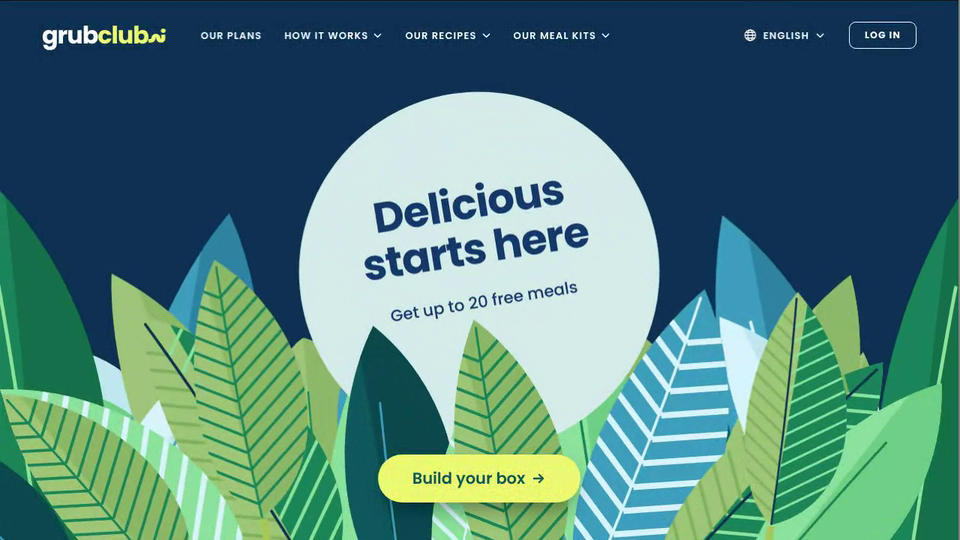
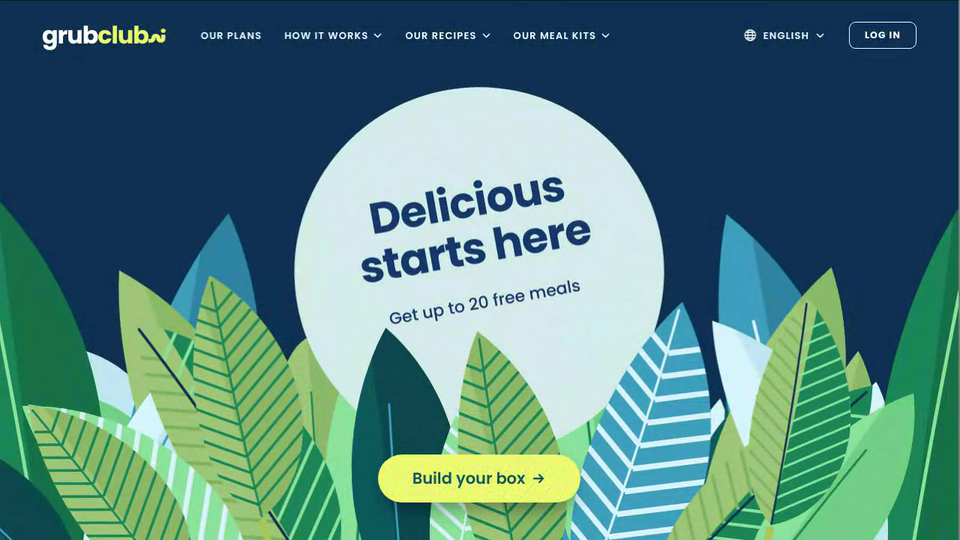
Grubclub Order: checkout-style flow pages, leaves already in place, email screen removed
Claude-Session: https://claude.ai/code/session_01AHeBdxhV8CCLctwk6eqLXm

diff --git a/grubclub-order/index.html b/grubclub-order/index.html
@@ -52,9 +52,9 @@ main{flex:1;min-height:0;position:relative;overflow:hidden;background:#07213a}
 #pLogo i{color:var(--bean)}
 #pStep{right:56px;top:40px;font-size:12px;font-weight:600;letter-spacing:.2em;color:var(--bean);display:flex;gap:18px}
 #pStep em{font-style:normal;opacity:.4}#pStep em.a{opacity:1}
-#pHead{left:56px;top:116px}
-#pHead h1{margin:0;font-size:40px;line-height:1.1;font-weight:700;letter-spacing:-.01em}
-#pHead p{margin:8px 0 0;font-size:17px;color:#3d6f74}
+#pHead{left:169px;top:138px}
+#pHead h1{margin:0;font-size:31px;line-height:1.1;font-weight:700;letter-spacing:-.01em}
+#pHead p{margin:6px 0 0;font-size:14px;color:#3d6f74}
 #grid{left:56px;top:216px;width:744px;display:grid;grid-template-columns:repeat(3,1fr);gap:20px}
 .card{background:#fff;border-radius:22px;padding:14px;height:226px;box-shadow:0 10px 24px -14px rgba(14,50,81,.35);opacity:0;transform:translateY(26px);transition:opacity calc(.5s*var(--k)),transform calc(.6s*var(--k)) cubic-bezier(.2,.8,.2,1),box-shadow .3s,outline-color .3s;outline:3px solid transparent;outline-offset:-1px}
 #s1.in .card{opacity:1;transform:none;transition-delay:calc(var(--i)*70ms*var(--k))}
@@ -67,17 +67,16 @@ main{flex:1;min-height:0;position:relative;overflow:hidden;background:#07213a}
 .card.sel .add{background:var(--navy);color:var(--kiwi)}
 .bx{left:836px;top:106px;width:388px;height:584px;border-radius:28px;background:var(--navy);color:#fff;opacity:0;transform:translateX(30px);transition:opacity calc(.6s*var(--k)),transform calc(.7s*var(--k)) cubic-bezier(.2,.8,.2,1)}
 #s1.in .bx{opacity:1;transform:none}
-.bx h3{position:absolute;left:28px;top:24px;margin:0;font-size:22px;font-weight:600}
+.bx h3{position:absolute;left:22px;top:20px;margin:0;font-size:19px;font-weight:600}
 .bx .cn{position:absolute;right:28px;top:16px;font-size:30px;font-weight:700;color:var(--kiwi);line-height:1.2}
 .bx .cn small{font-size:16px;color:var(--egg);font-weight:500}
 #pbox{position:absolute;left:109px;top:68px;width:170px}
 #slots{position:absolute;left:28px;right:28px;top:284px;display:grid;gap:8px}
 .slot{height:46px;border-radius:14px;border:1.5px dashed rgba(215,245,250,.28);display:flex;align-items:center;gap:12px;padding:0 14px;font-size:13.5px;font-weight:500;color:rgba(215,245,250,.45);transition:background .3s,border-color .3s,color .3s}
-.slot i{width:22px;height:22px;border-radius:50%;background:rgba(215,245,250,.12);flex:none;transition:background .3s}
+.slot i{display:grid;place-items:center;width:30px;height:30px;border-radius:50%;background:rgba(215,245,250,.12);flex:none;font:600 10.5px/1 Poppins,sans-serif;font-style:normal;color:rgba(215,245,250,.55);transition:background .3s,color .3s}
+.slot.on i{color:var(--navy)}
 .slot span{white-space:nowrap;overflow:hidden;text-overflow:ellipsis}
 .slot.on{border:1.5px solid transparent;background:rgba(215,245,250,.1);color:#fff}
-#cont{position:absolute;left:28px;right:28px;bottom:26px;height:52px;border-radius:999px;background:rgba(215,245,250,.12);color:rgba(215,245,250,.4);font:600 17px/52px Poppins,sans-serif;text-align:center;transition:background .3s,color .3s}
-#cont.ready{background:var(--kiwi);color:var(--bean)}
 @keyframes glow{50%{box-shadow:0 0 0 8px rgba(238,251,113,.25)}}
 
 /* ===== 3 pack ===== */
@@ -94,7 +93,7 @@ main{flex:1;min-height:0;position:relative;overflow:hidden;background:#07213a}
 #pkBtn.in{opacity:1;transform:none}
 #pkBtn.press{transform:scale(.96)}
 
-#pbox img,#pkBox img,#eThumb img{display:block;width:100%;height:auto}
+#pbox img{display:block;width:100%;height:auto}
 #pbox{transition:transform calc(.35s*var(--k)) cubic-bezier(.3,1.6,.5,1)}
 #pbox.bump{transform:scale(1.07) rotate(-2deg)}
 .slot.on i{animation:pop calc(.45s*var(--k)) cubic-bezier(.3,1.7,.5,1)}
@@ -137,60 +136,103 @@ main{flex:1;min-height:0;position:relative;overflow:hidden;background:#07213a}
 
 
 /* pick: roomier cards with product photos */
-#grid{left:56px;top:226px;width:744px;grid-template-columns:repeat(2,1fr);gap:32px}
-.card{display:flex;gap:20px;padding:20px;height:216px;border-radius:26px;outline:none;transition:opacity calc(.5s*var(--k)),transform calc(.6s*var(--k)) cubic-bezier(.2,.8,.2,1),background .3s}
+#grid{left:169px;top:222px;width:600px;grid-template-columns:repeat(2,1fr);gap:24px}
+.card{display:flex;gap:14px;padding:14px;height:186px;border-radius:20px;outline:none;transition:opacity calc(.5s*var(--k)),transform calc(.6s*var(--k)) cubic-bezier(.2,.8,.2,1),background .3s}
 #s1.in .card.sel{transform:translateY(-3px);outline:none;background:var(--kiwi)}
-.card .il{flex:none;width:140px;height:176px;border-radius:16px;overflow:hidden;background:#d4ea70}
+.card .il{flex:none;width:108px;height:158px;border-radius:14px;overflow:hidden;background:#d4ea70}
 .card .il img{display:block;width:100%;height:100%;object-fit:cover}
 .card .tx{display:flex;flex-direction:column;flex:1;min-width:0}
-.card .tx h4{margin:4px 0 0;height:auto;font-size:16px;line-height:1.3;font-weight:600}
+.card .tx h4{margin:2px 0 0;height:auto;font-size:14px;line-height:1.3;font-weight:600}
 .card .tx .rw{margin-top:auto}
 .card.sel .add{background:var(--navy);color:var(--kiwi)}
 .card.sel .rw small{color:var(--navy)}
-.bx{top:116px;height:574px}
-#pbox{left:84px;top:62px;width:220px}
-#slots{top:282px;gap:10px}
-.slot{height:50px}
+.bx{left:800px;top:140px;width:323px;height:476px;border-radius:22px}
+#pbox{left:70px;top:58px;width:184px}
+#slots{top:262px;left:22px;right:22px;gap:8px}
+.slot{height:44px}
 
-/* ===== 4 email ===== */
-#s3{background:var(--mint)}
-#esc{position:absolute;inset:0;overflow-y:auto;scrollbar-width:none}
-#esc::-webkit-scrollbar{display:none}
-#esz{position:relative;width:1280px;height:1071px;overflow:hidden}
-#eim{position:absolute;left:0;top:0;width:2000px;height:1673px;transform:scale(.64);transform-origin:0 0}
-#email{position:absolute;left:330px;top:115px;width:1340px;height:1443px;background:var(--paper);color:#0F5F5E;font-size:23.4px}
-#email>*{position:absolute}
-#email .hero{left:0;top:0;width:1340px;height:840px;background:#0E3C65}
-#email .band{left:0;top:0;width:1340px;height:163px;background:#0B375C}
-#email .rv{opacity:0;transform:translateY(34px);transition:opacity calc(.7s*var(--k)),transform calc(.8s*var(--k)) cubic-bezier(.2,.8,.2,1);transition-delay:calc(var(--d)*1ms*var(--k))}
-#email.in .rv{opacity:1;transform:none}
-#eLogo{left:167px;top:52px;font-size:39px;color:#fff;line-height:56px}
-#eLogo i{color:var(--kiwi)}
-#eHdrR{right:167px;top:52px;height:56px;display:flex;align-items:center;gap:36px;font-size:17px;font-weight:600;letter-spacing:.09em;text-transform:uppercase;color:#fff;line-height:1;white-space:nowrap}
-#eHdrR .elog{padding:14px 26px;border:2px solid #fff;border-radius:11px;font-weight:700;font-size:16.5px}
-#eTitle{left:262px;top:249px;margin:0;font-size:50px;font-weight:700;letter-spacing:-.005em;line-height:78px;color:#fff;white-space:nowrap}
-#eHi{left:262px;top:371px;margin:0;font-size:23.4px;line-height:29px;color:#fff;white-space:nowrap}
-#eAdr{left:262px;top:455px;margin:0;font-size:22px;line-height:34px;letter-spacing:.14em;color:#fff;white-space:nowrap}
-#eBtn{left:262px;top:544px;width:291px;height:66px;border-radius:7px;background:#EFFB7A;color:var(--bean);font-weight:600;font-size:18.6px;line-height:66px;text-align:center}
-#eCard{left:168px;top:713px;width:1005px;height:600px;background:#fff;border-radius:26px}
-#eCard>*{position:absolute}
-#eSum{left:94px;top:60px;margin:0;font-size:26.6px;font-weight:600;line-height:42px;color:#0B5456;white-space:nowrap}
-#eItem{left:94px;top:148px;width:819px;height:76px;background:#E2F5F3}
-#eThumb{position:absolute;left:0;top:0;width:80px;height:76px;background:#EEF17A;border-radius:8px 0 0 8px;overflow:hidden}
-#eThumb img{position:absolute;left:8px;top:7px;width:64px}
-#eName{position:absolute;left:104px;top:0;line-height:76px;font-weight:600;color:#0C6663;white-space:nowrap}
-#eName s{display:inline-block;width:2px;height:20px;background:#0C6663;margin:0 14px 0 14px;vertical-align:-3px;text-decoration:none}
-#eName span{font-weight:400}
-#ePrice{position:absolute;right:29px;top:0;line-height:76px;color:#0F6561}
-.trow{left:550px;width:363px;height:76px;display:flex;justify-content:space-between;padding:3px 29px 0 0;align-items:center;line-height:1;color:#0F6561}
-.trow.ln{border-bottom:2px solid #8DD3C6;height:78px}
-.trow.tot{font-weight:600;color:#0B5456}
-#eFoot{left:0;top:1380px;width:1340px;text-align:center;font-size:19px;color:#4a8a88}
+
+/* ===== checkout flow pages (layout after the supplied references) ===== */
+.logo.dk{color:#0A5033}.logo.dk i{color:#0A5033}.logo.dk .wm{color:#B9E22E}
+.flow,#s1{background:var(--paper);color:#0A2F25}
+.fh{position:absolute;left:0;top:0;width:1280px;height:62px}
+.fh .logo{position:absolute;left:157px;top:14px;font-size:26px}
+.fh .bk{position:absolute;left:316px;top:20px;width:22px;height:22px;color:#0A2F25}
+.fh .pg{position:absolute;left:370px;top:0;width:753px;height:62px;font:500 11.5px/1 Poppins,sans-serif;color:#5b6f69}
+.pg .d{position:absolute;top:12px;width:8px;height:8px;border-radius:50%;background:#8a8f8d}
+.pg .d.on{background:#0F5A5C}
+.pg .bar{position:absolute;top:14px;height:4px;border-radius:2px;background:#bfc4c2;overflow:hidden}
+.pg .bar i{display:block;height:100%;width:0;background:#0F5A5C;transition:width calc(1.1s*var(--k)) ease}
+.pg .d1{left:0}.pg .b1{left:14px;width:296px}.pg .d2{left:318px}.pg .b2{left:332px;width:407px}.pg .d3{left:745px}
+.pg em{position:absolute;top:32px;font-style:normal}
+.pg .l1{left:0}.pg .l2{left:318px;transform:translateX(-30%)}.pg .l3{right:0}
+.pg em.on{color:#0F5A5C;font-weight:600}
+.fb{position:absolute;left:0;top:62px;width:1280px;height:55px;background:#D6F3E0;display:flex;align-items:center;justify-content:center;gap:12px;font:400 13px/1 Poppins,sans-serif;color:#0A2F25}
+.fb svg{width:18px;height:18px;flex:none}.fb .x{position:absolute;right:16px;top:19px;width:18px;height:18px}
+.fbar{position:absolute;left:0;top:640px;width:1280px;height:80px;border-top:1px solid #dcdfdd;background:var(--paper)}
+.fbar .bkb{position:absolute;left:421px;top:14px;width:72px;height:41px;border:1.5px solid #0A2F25;border-radius:8px;font:600 14px/38px Poppins,sans-serif;text-align:center}
+.fbar .nx{position:absolute;left:509px;top:14px;width:360px;height:41px;border-radius:8px;background:var(--navy);color:#fff;font:600 14px/41px Poppins,sans-serif;text-align:center;transition:transform .15s,opacity .3s}
+.fbar .nx.press{transform:scale(.97)}
+#cont{opacity:.4}#cont.ready{opacity:1}
+.pcol{position:absolute;left:169px;top:140px;width:460px;height:480px}
+.pcol.wide{width:954px}
+.ph{margin:0;font:700 31px/1.15 Poppins,sans-serif;letter-spacing:-.025em;color:#0A2F25}
+.pimg{position:absolute;left:658px;top:134px;width:462px;height:490px;border-radius:26px;overflow:hidden;background:#d4ea70}
+.pimg img{display:block;width:100%;height:100%;object-fit:cover}
+.flow .pc,.flow .pcol>*,.flow .pimg,.flow .sum{opacity:0;transform:translateY(16px);transition:opacity calc(.5s*var(--k)),transform calc(.6s*var(--k)) cubic-bezier(.2,.8,.2,1)}
+.flow.in .pcol>*,.flow.in .pimg,.flow.in .sum{opacity:1;transform:none}
+.flow.in .pcol>*:nth-child(2){transition-delay:calc(.08s*var(--k))}.flow.in .pcol>*:nth-child(3){transition-delay:calc(.16s*var(--k))}.flow.in .pcol>*:nth-child(4){transition-delay:calc(.24s*var(--k))}
+/* address */
+.okd{display:inline-grid;place-items:center;width:26px;height:26px;border-radius:50%;background:#B9E22E;color:#0A3A2B;opacity:0;transition:opacity .4s}
+.okd svg{width:16px;height:16px}
+.gn{margin:14px 0 0;font:600 17px/1 Poppins,sans-serif;color:#0F5A5C;opacity:0;transition:opacity .4s}
+#gn2{margin-top:8px;color:#0F5A5C;opacity:0;transition:opacity .4s}
+.fld{position:absolute;left:0;top:176px;width:446px;height:42px;border:1.5px solid #0F5A5C;border-radius:6px;font:500 14px/42px Poppins,sans-serif;padding:0 14px;color:#0A2F25}
+.fld label{position:absolute;left:10px;top:-8px;padding:0 5px;background:var(--paper);font:400 11px/14px Poppins,sans-serif;color:#0F5A5C}
+.fld .tick{position:absolute;right:14px;top:10px;width:20px;height:20px;opacity:0;transition:opacity .3s}.fld .tick svg{width:20px;height:20px}
+#s4.done .okd,#s4.done .gn,#s4.done #gn2,#s4.done .tick{opacity:1}
+#s4.in .pcol>.okd,#s4 .pcol>.okd{transform:none}
+/* options */
+.opts{position:absolute;left:0;top:66px;width:460px;display:grid;grid-template-columns:1fr 1fr;gap:20px 20px}
+.opt{height:50px;border-radius:10px;background:#EFEDE6;font:600 14px/50px Poppins,sans-serif;padding:0 20px;transition:background .3s}
+.opt.sel{background:var(--kiwi)}
+.note{position:absolute;left:0;width:446px;height:70px;border-radius:8px;background:#E1F4E1;display:flex;align-items:center;gap:14px;padding:0 16px}
+.note b{display:block;font:600 13px/1.3 Poppins,sans-serif;color:#0A2F25}.note span{display:block;margin-top:3px;font:400 12px/1.4 Poppins,sans-serif;color:#33524a}
+.note .ni{flex:none;width:40px;height:40px;border-radius:8px;overflow:hidden;display:grid;place-items:center;background:#fff}.note .ni svg{width:24px;height:24px}.note .ni img{width:100%;height:100%;object-fit:cover}
+.note.mid{left:247px;top:418px;width:450px;height:68px}
+/* flavours */
+.flv{position:absolute;left:12px;top:70px;display:grid;grid-template-columns:repeat(3,190px);gap:30px 12px}
+.fv{height:136px}
+.fv .ic{width:46px;height:46px}
+.fv .nm{margin-top:10px;font:600 14px/1 Poppins,sans-serif}
+.fv .th{margin-top:18px;display:flex;gap:12px}
+.th b{display:grid;place-items:center;width:42px;height:42px;border-radius:50%;background:#EFEDE6;transition:background .3s,color .3s}.th b svg{width:20px;height:20px}
+.th b.up.sel{background:var(--kiwi)}.th b.dn.sel{background:#0E3251;color:#fff}
+/* cooking */
+.cooks{position:absolute;left:114px;top:66px;display:flex;gap:26px}
+.ck{width:220px;height:210px;border-radius:10px;overflow:hidden;background:#EFEDE6;text-align:center;transition:background .3s}
+.ck .im{height:130px;background:#d4ea70}.ck .im img{display:block;width:100%;height:100%;object-fit:cover}
+.ck b{display:block;margin-top:12px;font:600 14px/1 Poppins,sans-serif}.ck span{display:block;margin:8px 16px 0;font:400 11.5px/1.4 Poppins,sans-serif;color:#33524a}
+.ck.sel{background:var(--kiwi)}
+/* plan */
+.lead{position:absolute;left:0;top:64px;margin:0;width:470px;font:400 13.5px/1.55 Poppins,sans-serif;color:#1e3a33}
+.lbl{position:absolute;left:0;font:600 13.5px/1 Poppins,sans-serif}
+.seg{position:absolute;left:0;width:461px;height:36px;display:flex;border:1.5px solid #0A2F25;border-radius:8px;overflow:hidden}
+.seg span{flex:1;font:600 13.5px/33px Poppins,sans-serif;text-align:center;border-left:1.5px solid #0A2F25;transition:background .3s,color .3s}
+.seg span:first-child{border-left:0}.seg span.sel{background:#0A2F25;color:#fff}
+.sum{position:absolute;left:658px;top:130px;width:462px;height:486px;border-radius:14px;background:#E9EFEA;padding:22px 20px}
+.sum h3{margin:0 0 14px;font:700 20px/1.2 Poppins,sans-serif;letter-spacing:-.02em}
+.sum .sh{display:block;font:600 14.5px/1.3 Poppins,sans-serif;margin-top:6px}
+.sum p{margin:6px 0 0;font:400 13px/1.4 Poppins,sans-serif}.sum s,.sum .row s{color:#6e7b76}.sum em{font-style:normal;color:#0F5A5C;font-weight:600}
+.free{position:relative;margin:12px 0 10px;padding:9px 12px;border-radius:6px;background:#C9F0D3}.free b{font:500 13.5px/1.3 Poppins,sans-serif}.free i{position:absolute;right:12px;top:9px;font:700 13.5px/1.3 Poppins,sans-serif;font-style:normal}.free span{display:block;margin-top:3px;font:400 11.5px/1.4 Poppins,sans-serif;color:#33524a}
+.sum .row{display:flex;justify-content:space-between;padding:9px 0;font:400 13.5px/1.2 Poppins,sans-serif}.sum .row.ln{border-bottom:1px solid #c9d2cd}.sum .row:first-of-type{border-top:1px solid #c9d2cd}
+.sum .tot{font:700 15px/1.2 Poppins,sans-serif;padding-top:12px}
+
 </style>
 </head>
 <body>
 <nav class="back" aria-label="Sandbox"><a href="../">Sandbox</a><span>/</span><a href="../">Back to all projects</a><span>/</span><b>Grubclub Order</b>
-  <div class="ctl" role="group" aria-label="Scenes"><button data-s="0">Hero</button><button data-s="1">Pick</button><button data-s="2">Pack</button><button data-s="3">Email</button><button class="pp" id="pp" aria-label="Pause"></button></div>
+  <div class="ctl" role="group" aria-label="Scenes"><button data-s="0">Hero</button><button data-s="4">Address</button><button data-s="5">Days</button><button data-s="6">Flavours</button><button data-s="7">Cooking</button><button data-s="8">Plan</button><button data-s="1">Pick</button><button data-s="2">Pack</button><button class="pp" id="pp" aria-label="Pause"></button></div>
 </nav>
 <main id="wrap"><div id="stage">
 
@@ -210,11 +252,9 @@ main{flex:1;min-height:0;position:relative;overflow:hidden;background:#07213a}
 
 <!-- 2 pick -->
 <section class="scene" id="s1" aria-label="Pick your meals">
-  <div class="abs logo" id="pLogo">grub<i>club</i><span class="wm" style="color:var(--bean)"></span></div>
-<div class="abs snav" id="pNav"><a>Our plans</a><a>How it works<svg viewBox="0 0 16 16"><path d="M3 5.5l5 5 5-5" fill="none" stroke="currentColor" stroke-width="2" stroke-linecap="round" stroke-linejoin="round"/></svg></a><a>Our recipes<svg viewBox="0 0 16 16"><path d="M3 5.5l5 5 5-5" fill="none" stroke="currentColor" stroke-width="2" stroke-linecap="round" stroke-linejoin="round"/></svg></a><a>Our meal kits<svg viewBox="0 0 16 16"><path d="M3 5.5l5 5 5-5" fill="none" stroke="currentColor" stroke-width="2" stroke-linecap="round" stroke-linejoin="round"/></svg></a><span class="sp"></span><span class="lang"><svg class="g" viewBox="0 0 24 24" fill="none" stroke="currentColor" stroke-width="1.7"><circle cx="12" cy="12" r="9.5"/><ellipse cx="12" cy="12" rx="4.2" ry="9.5"/><path d="M2.5 12h19M4 7h16M4 17h16"/></svg>English<svg viewBox="0 0 16 16"><path d="M3 5.5l5 5 5-5" fill="none" stroke="currentColor" stroke-width="2" stroke-linecap="round" stroke-linejoin="round"/></svg></span><span class="login">Log in</span></div>
   <div class="abs" id="pHead"><h1>Pick your meals</h1><p>Choose 3 you like for your entomo box</p></div>
   <div class="abs" id="grid"></div>
-  <div class="abs bx"><h3>Your box</h3><div class="cn"><b id="cnt">0</b><small> / 3</small></div><div id="pbox"></div><div id="slots"></div><div id="cont">Continue</div></div>
+  <div class="abs bx"><h3>Your box</h3><div class="cn"><b id="cnt">0</b><small> / 3</small></div><div id="pbox"></div><div id="slots"></div></div>
 </section>
 
 <!-- 3 pack -->
@@ -228,26 +268,43 @@ main{flex:1;min-height:0;position:relative;overflow:hidden;background:#07213a}
   <div class="abs" id="pkBtn" role="button">Place order</div>
 </section>
 
-<!-- 4 email -->
-<section class="scene" id="s3" aria-label="Order email">
- <div id="esc"><div id="esz"><div id="eim"><div id="email">
-  <div class="hero"></div><div class="band"></div>
-  <div class="logo rv" id="eLogo" style="--d:0">grub<i>club</i><span class="wm" style="color:var(--kiwi)"></span></div>
-  <div class="rv" id="eHdrR" style="--d:80"><span>Read online</span><span class="elog">Log in</span></div>
-  <h2 class="rv" id="eTitle" style="--d:200">Your order has arrived!</h2>
-  <p class="rv" id="eHi" style="--d:320">Hi Kristyna,<br>Thanks for shopping with grubclub. Your package was delivered to:</p>
-  <p class="rv" id="eAdr" style="--d:420">330 UNIVERSITY AVE, TORONTO, ON M5G 1R8</p>
-  <div class="rv" id="eBtn" style="--d:520">View your order</div>
-  <div class="rv" id="eCard" style="--d:620">
-    <h3 id="eSum">Order summary</h3>
-    <div id="eItem"><div id="eThumb"></div><div id="eName">Entomo box<s></s><span>x1</span></div><div id="ePrice">$100.00</div></div>
-    <div class="trow ln" style="top:241px"><span>Subtotal</span><span>$90.00</span></div>
-    <div class="trow ln" style="top:317px"><span>Shipping</span><span>$27.55</span></div>
-    <div class="trow" style="top:393px"><span>HST</span><span>$27.55</span></div>
-    <div class="trow tot" style="top:469px"><span>Total</span><span>$145.10</span></div>
-  </div>
-  <div class="rv" id="eFoot" style="--d:760">Questions about your order? Just reply to this email.</div>
- </div></div></div></div>
+
+
+
+<!-- flow: address -->
+<section class="scene flow" id="s4" aria-label="Delivery address">
+  <div class="pcol" style="top:156px"><span class="okd"><svg viewBox="0 0 24 24" fill="none" stroke="currentColor" stroke-width="2.6" stroke-linecap="round" stroke-linejoin="round"><path d="M5 12.5l4.5 4.5L19 7.500"/></svg></span><p class="gn" id="gn1">Good news!</p><h1 class="ph" id="gn2">We deliver to your area!</h1>
+    <div class="fld" id="fld"><label>Enter delivery address</label><span id="typed"></span><i class="tick"><svg viewBox="0 0 24 24" fill="none" stroke="currentColor" stroke-width="2.6" stroke-linecap="round" stroke-linejoin="round"><path d="M5 12.5l4.5 4.5L19 7.500"/></svg></i></div></div>
+  <div class="pimg"><img src="box-photo.webp" alt="" style="object-position:48% 52%"></div>
+</section>
+<!-- flow: days per week -->
+<section class="scene flow" id="s5" aria-label="How often">
+  <div class="pcol"><h1 class="ph">How often should we handle dinner?</h1>
+    <div class="opts" id="optsDays"><div class="opt">1-2 days per week</div><div class="opt">3-4 days per week</div><div class="opt">5-6 days per week</div><div class="opt">All week</div></div>
+    <div class="note" style="top:392px"><span class="ni"><svg viewBox="0 0 24 24" fill="none" stroke="#0F5A5C" stroke-width="1.8"><rect x="4" y="5" width="16" height="15" rx="2.500"/><path d="M4 10h16M8 3v4M16 3v4"/></svg></span><div><b>Flexible, no lock-in plans</b><span>Skip or pause flexibly</span></div></div></div>
+  <div class="pimg"><img src="flow-boxes.webp" alt="" style="object-position:50% 40%"></div>
+</section>
+<!-- flow: flavours -->
+<section class="scene flow" id="s6" aria-label="Favourite flavours">
+  <div class="pcol wide"><h1 class="ph">Any favourite flavours?</h1><div class="flv" id="flv"></div></div>
+</section>
+<!-- flow: how do you like to cook -->
+<section class="scene flow" id="s7" aria-label="How do you like to cook">
+  <div class="pcol wide"><h1 class="ph">How do you like to cook?</h1>
+    <div class="cooks" id="cooks"></div>
+    <div class="note mid"><span class="ni"><img src="meal-mealworm.webp" alt=""></span><div><b>Help us personalize your menu</b><span>With so many meals to choose from, your answers help us serve up the ones you'll love most.</span></div></div></div>
+</section>
+<!-- flow: plan summary -->
+<section class="scene flow" id="s8" aria-label="Your plan">
+  <div class="pcol" style="width:470px"><h1 class="ph">Dinner's sorted, your way.</h1>
+    <p class="lead">Based on what you've told us, we recommend this box size. Perfect for solo cooks and duos, you'll never be short on delicious bug-powered variety and meal options!</p>
+    <div class="lbl" style="top:238px">Servings per dinner</div><div class="seg" id="segA" style="top:262px"><span>2</span><span>4</span><span>6</span></div>
+    <div class="lbl" style="top:318px">Dinners per week</div><div class="seg" id="segB" style="top:342px"><span>3</span><span>4</span><span>5</span></div></div>
+  <div class="sum"><h3>Your summary</h3><b class="sh">Preferences</b><p>Crunchy and savoury</p><b class="sh" style="margin-top:26px">Order summary</b>
+    <p>3 meals for 2 people per week</p><p>6 servings at <s>$16.67</s> <em>$15.00</em> per serving</p>
+    <div class="free"><b>Free spice kit - for life!</b><i>FREE</i><span>Choose 1 free item per box with an active subscription.</span></div>
+    <div class="row"><span>Box price</span><span><s>$100.00</s> <em>$90.00</em></span></div><div class="row"><span>Shipping</span><span>$27.55</span></div><div class="row ln"><span>HST</span><span>$27.55</span></div>
+    <div class="row tot"><span>First box total</span><span>$145.10</span></div></div>
 </section>
 
 <div id="w1" class="abs" style="inset:0;display:none;z-index:60"></div>
@@ -314,9 +371,8 @@ const PICKS=[0,1,3];
 
 /* ============ build static DOM ============ */
 $('#grid').innerHTML=MEALS.map((m,i)=>`<div class="card" style="--i:${i}" data-i="${i}"><div class="il"><img src="${m.img}" alt="${m.n}"></div><div class="tx"><h4>${m.n}</h4><div class="rw"><small>${m.g}</small><div class="add">+ Add</div></div></div></div>`).join('');
-$('#slots').innerHTML=PICKS.map(()=>`<div class="slot"><i></i><span>Choose a meal</span></div>`).join('');
+$('#slots').innerHTML=PICKS.map((_,n)=>`<div class="slot"><i>${n+1}</i><span>Choose a meal</span></div>`).join('');
 $('#pbox').innerHTML='<img src="box.webp" alt="">';
-$('#eThumb').innerHTML='<img src="box.webp" alt="">';
 
 /* hero collage */
 const HB=[[300,610,62,'#EEF6A8'],[200,600,90,'#A8C7DA'],[1000,590,84,'#BFE3DF'],[900,640,40,'#EEF6A8']];
@@ -338,7 +394,7 @@ $('#pkRings').innerHTML=Array.from({length:PR.n},()=>`<circle cx="${PR.cx}" cy="
 /* ============ per-frame drawing ============ */
 const pack={t:0,out:null};
 function drawHero(){const t=hero.t;
-  for(const l of hero.L){const p=eob((t-l.d)/.95),sw=Math.sin(t*l.sp+l.ph)*l.amp;l.el.setAttribute('transform',`translate(${l.x} ${l.y}) rotate(${l.r+sw+(1-p)*-22*Math.sign(l.r||1)}) scale(${Math.max(p,.0001)})`)}
+  for(const l of hero.L){const p=1,sw=Math.sin(t*l.sp+l.ph)*l.amp;l.el.setAttribute('transform',`translate(${l.x} ${l.y}) rotate(${l.r+sw+(1-p)*-22*Math.sign(l.r||1)}) scale(${Math.max(p,.0001)})`)}
   const s=eob((t-.15)/.95)*(1+.022*Math.sin(t*1.7));$('#hc').setAttribute('transform',`translate(640 362) scale(${Math.max(s*1.14,.0001)})`);
   $('#hTxt').setAttribute('transform',`rotate(${-9+Math.sin(t*.9)*1.3})`);
   $$('.hl').forEach((e,i)=>{const p=clamp((t-(.9+i*.14))/.5);e.setAttribute('opacity',p);e.setAttribute('dy',(1-p)*14)});
@@ -359,7 +415,8 @@ function curSet(x,y){cursor.style.transition='none';cursor.style.transform=`tran
 function curGo(x,y,ms){cursor.style.transition=`transform ${ms*K}ms cubic-bezier(.45,0,.2,1)`;cursor.style.transform=`translate(${x}px,${y}px)`}
 async function curClick(g){cursor.classList.remove('down');void cursor.offsetWidth;cursor.classList.add('down');await W(160,g)}
 const cen=el=>{const r=rc(el);return{x:r.x+r.w/2,y:r.y+r.h/2}};
-const BG=['#0E3251','#F7F6FA','#0E3251','#A3DAC5'];
+const BG=['#0E3251','#F7F6FA','#0E3251','#0E3251','#F7F6FA','#F7F6FA','#F7F6FA','#F7F6FA','#F7F6FA'];
+const ORDER=[0,4,5,6,7,8,1,2],ORDER_CLIP=[0,1];
 function clearWipe(){['#w1','#w2'].forEach(x=>{const e=$(x);e.getAnimations().forEach(a=>a.cancel());e.style.display='none';e.style.opacity=''})}
 /* scene change: a calm dissolve through the next scene's background colour */
 async function wipe(g,x,y,col){const w=$('#w2');$('#w1').style.display='none';w.style.background=col;w.style.opacity=0;w.style.display='block';
@@ -367,7 +424,7 @@ async function wipe(g,x,y,col){const w=$('#w2');$('#w1').style.display='none';w.
 function unwipe(){const w=$('#w2');$('#w1').style.display='none';w.getAnimations().forEach(a=>a.cancel());
   if(w.style.display!=='block'){return}w.style.opacity=1;
   w.animate([{opacity:1},{opacity:0}],{duration:600*K,easing:'ease-out'}).finished.then(()=>{w.style.display='none';w.style.opacity=''}).catch(()=>{})}
-function show(i){$$('.scene').forEach((s,j)=>s.classList.toggle('on',j===i));$$('.ctl [data-s]').forEach(b=>b.classList.toggle('on',+b.dataset.s===i));unwipe();cursor.style.opacity=0}
+function show(i){$$('.scene').forEach(s=>s.classList.toggle('on',s.id==='s'+i));$$('.ctl [data-s]').forEach(b=>b.classList.toggle('on',+b.dataset.s===i));unwipe();cursor.style.opacity=0}
 function showCursor(){cursor.style.opacity=1}
 
 /* ============ scenes ============ */
@@ -416,17 +473,59 @@ async function pack_(g,o){
   cursor.style.opacity=0;$('#pkBtn').classList.remove('in');pack.out=pack.t;
   const L=await loc;$('#pkT').classList.add('ship');$('#pkS').classList.add('ship');$('#pkT').textContent="It's on its way!";$('#pkS').textContent=L.here?'Shipping to your location':'Shipping to 500 Prince Edward Drive';
   await W(1300,g);showMap(L);$('#pkMap').classList.add('in');await W(4200,g);
-  return{x:640,y:360}},
-
-async function email_(g,o){
-  show(3);const em=$('#email'),sc=$('#esc');em.classList.remove('in');sc.scrollTop=0;
-  await W(250,g);em.classList.add('in');await W(o.clip?9000:2600,g);
-  if(!o.clip){const max=sc.scrollHeight-sc.clientHeight;await tween(2600,g,p=>{sc.scrollTop=max*eio(p)});await W(2600,g);await tween(1200,g,p=>{sc.scrollTop=max*(1-eio(p))});await W(600,g)}
   return{x:640,y:360}}
 ];
 
+
+/* ============ checkout shell (header, progress, banner, bottom bar) ============ */
+const ICO={tag:'<svg viewBox="0 0 24 24" fill="none" stroke="currentColor" stroke-width="1.8" stroke-linejoin="round"><path d="M3 12V4h8l10 10-8 8z"/><circle cx="7.500" cy="8" r="1.200"/></svg>',x:'<svg class="x" viewBox="0 0 24 24" fill="none" stroke="currentColor" stroke-width="1.8" stroke-linecap="round"><circle cx="12" cy="12" r="9.500"/><path d="M8.500 8.500l7 7M15.500 8.500l-7 7"/></svg>',
+ back:'<svg class="bk" viewBox="0 0 24 24" fill="none" stroke="currentColor" stroke-width="1.8" stroke-linecap="round" stroke-linejoin="round"><path d="M20 12H4M10 6l-6 6 6 6"/></svg>'};
+const WORM='<span class="wm"></span>';
+function shell(id,step,b1,b2,nxId){return `<div class="fh"><div class="logo dk">grub<i>club</i>${WORM}</div>${ICO.back}<div class="pg"><b class="d d1 on"></b><span class="bar b1"><i data-w="${b1}"></i></span><b class="d d2${step>1?' on':''}"></b><span class="bar b2"><i data-w="${b2}"></i></span><b class="d d3${step>2?' on':''}"></b><em class="l1${step==1?' on':''}">About you</em><em class="l2${step==2?' on':''}">Checkout</em><em class="l3${step==3?' on':''}">Select meals</em></div></div>
+<div class="fb">${ICO.tag}<span>Discount successfully applied! + Up to 20 free meals (see terms &amp; conditions)</span>${ICO.x}</div>
+<div class="fbar"><div class="bkb">Back</div><div class="nx"${nxId?` id="${nxId}"`:''}>Next</div></div>`}
+[[4,1,10,0],[5,1,30,0],[6,1,52,0],[7,2,78,0],[8,2,100,18]].forEach(([i,st,b1,b2])=>$('#s'+i).insertAdjacentHTML('afterbegin',shell(i,st,b1,b2)));
+$('#s1').insertAdjacentHTML('afterbegin',shell(1,3,100,72,'cont'));
+const fillBars=sc=>$$('.bar i',sc).forEach(e=>{e.style.transition='none';e.style.width='0';void e.offsetWidth;e.style.transition='';setTimeout(()=>e.style.width=e.dataset.w+'%',350)});
+/* flavours */
+const FLV=[['Salty','<svg class="ic" viewBox="0 0 48 48"><rect x="14" y="14" width="20" height="26" rx="5" fill="#D7F5FA"/><rect x="16" y="8" width="16" height="9" rx="4" fill="#3FA0BE"/><circle cx="21" cy="11.500" r="1.200" fill="#fff"/><circle cx="27" cy="11.500" r="1.200" fill="#fff"/><rect x="14" y="24" width="20" height="8" fill="#9EC878"/></svg>'],
+ ['Smoky','<svg class="ic" viewBox="0 0 48 48"><path d="M14 38c-6-4 2-8-2-12s4-8 0-12M26 38c-6-4 2-8-2-12s4-8 0-12M38 38c-6-4 2-8-2-12s4-8 0-12" fill="none" stroke="#0F5A5C" stroke-width="3.500" stroke-linecap="round"/></svg>'],
+ ['Spicy','<svg class="ic" viewBox="0 0 48 48"><path d="M30 8c8 6 12 20 2 30-8 6-22 2-22-10 0-8 6-8 6-16 4 2 6 6 6 10 4-4 4-10 8-14z" fill="#1C8859"/><path d="M26 34c0-6 6-8 6-14" stroke="#8CE39B" stroke-width="3" fill="none" stroke-linecap="round"/></svg>'],
+ ['Herby','<svg class="ic" viewBox="0 0 48 48"><path d="M24 42V20M24 30c-8 0-12-6-12-12 8 0 12 4 12 12zM24 24c8 0 12-6 12-12-8 0-12 4-12 12z" fill="#9EC878" stroke="#1C8859" stroke-width="2.500" stroke-linejoin="round"/></svg>'],
+ ['Sweet','<svg class="ic" viewBox="0 0 48 48"><path d="M24 6c8 10 12 16 12 22a12 12 0 0 1-24 0c0-6 4-12 12-22z" fill="#EEFB71" stroke="#B9E22E" stroke-width="2.500" stroke-linejoin="round"/></svg>']];
+const UP='<svg viewBox="0 0 24 24" fill="none" stroke="currentColor" stroke-width="1.8" stroke-linejoin="round"><path d="M7 11v9H4v-9zM7 11l4-8c2 0 3 1 3 3v3h5.500a1.500 1.500 0 0 1 1.500 1.800l-1.500 7A2 2 0 0 1 17.500 20H7"/></svg>';
+const DN='<svg viewBox="0 0 24 24" fill="none" stroke="currentColor" stroke-width="1.8" stroke-linejoin="round" style="transform:scaleY(-1)"><path d="M7 11v9H4v-9zM7 11l4-8c2 0 3 1 3 3v3h5.500a1.500 1.500 0 0 1 1.500 1.800l-1.500 7A2 2 0 0 1 17.500 20H7"/></svg>';
+$('#flv').innerHTML=FLV.map(f=>`<div class="fv">${f[1]}<div class="nm">${f[0]}</div><div class="th"><b class="up">${UP}</b><b class="dn">${DN}</b></div></div>`).join('');
+const COOK=[['Quick recipes','I want dinner on the table in 20 minutes or less.','meal-grasshoppers.webp'],['Chef-style recipes','I like restaurant-quality meals in 20-40 minutes.','meal-mealworm.webp'],['Family-style recipes','We cook for everyone. Kid-loved, adult-approved.','meal-buffalo.webp']];
+$('#cooks').innerHTML=COOK.map(c=>`<div class="ck"><div class="im"><img src="${c[2]}" alt="" style="object-position:50% 35%"></div><b>${c[0]}</b><span>${c[1]}</span></div>`).join('');
+
+/* ============ flow page animations ============ */
+async function tap(g,el,fn,dur=750){const c=cen(el);curGo(c.x,c.y,dur);await W(dur+150,g);await curClick(g);if(fn)fn();await W(380,g)}
+async function flowIn(g,id,reset){show(id);const sc=$('#s'+id);sc.classList.remove('in','done');reset&&reset(sc);fillBars(sc);await W(150,g);sc.classList.add('in');await W(900,g);return sc}
+async function flowNext(g,sc){const nx=$('.nx',sc),c=cen(nx);curGo(c.x,c.y,800);await W(900,g);nx.classList.add('press');await curClick(g);await W(120,g);nx.classList.remove('press');cursor.style.opacity=0;return{x:c.x,y:c.y}}
+const startCur=(el)=>{const c=cen(el);curSet(c.x+240,c.y+90);showCursor()};
+scenes[4]=async function address_(g,o){
+  const sc=await flowIn(g,4,()=>{$('#typed').textContent=''});
+  const f=$('#fld'),c=cen(f);curSet(c.x+260,c.y+120);showCursor();curGo(c.x-120,c.y,700);await W(850,g);await curClick(g);
+  const T='500 Prince Edward Drive, Etobicoke, ON';for(let i=1;i<=T.length;i++){$('#typed').textContent=T.slice(0,i);await W(38,g)}
+  await W(350,g);sc.classList.add('done');await W(1100,g);return await flowNext(g,sc)};
+scenes[5]=async function days_(g,o){
+  const sc=await flowIn(g,5,sc=>$$('.opt',sc).forEach(e=>e.classList.remove('sel')));
+  const o2=$$('.opt',sc)[1];startCur(o2);await tap(g,o2,()=>o2.classList.add('sel'));await W(700,g);return await flowNext(g,sc)};
+scenes[6]=async function flavours_(g,o){
+  const sc=await flowIn(g,6,sc=>$$('.th b',sc).forEach(e=>e.classList.remove('sel')));
+  const fv=$$('.fv',sc);startCur(fv[0]);
+  await tap(g,$('.up',fv[0]),()=>$('.up',fv[0]).classList.add('sel'));await tap(g,$('.up',fv[2]),()=>$('.up',fv[2]).classList.add('sel'),600);await tap(g,$('.dn',fv[4]),()=>$('.dn',fv[4]).classList.add('sel'),600);
+  await W(500,g);return await flowNext(g,sc)};
+scenes[7]=async function cook_(g,o){
+  const sc=await flowIn(g,7,sc=>$$('.ck',sc).forEach(e=>e.classList.remove('sel')));
+  const ck=$$('.ck',sc)[0];startCur(ck);await tap(g,ck,()=>ck.classList.add('sel'));await W(900,g);return await flowNext(g,sc)};
+scenes[8]=async function plan_(g,o){
+  const sc=await flowIn(g,8,sc=>$$('.seg span',sc).forEach(e=>e.classList.remove('sel')));
+  const a=$$('#segA span')[0],b=$$('#segB span')[0];startCur(a);await tap(g,a,()=>a.classList.add('sel'));await tap(g,b,()=>b.classList.add('sel'),650);await W(1200,g);return await flowNext(g,sc)};
+
 /* ============ story ============ */
-async function run(i,g,o){let first=true;for(;;){if(!first||o.wipeFirst){}first=false;const org=await scenes[i](g,o);let n=(i+1)%4;if(o.clip&&n===2)n=3;if(n===0)o.clip=false;await wipe(g,org.x,org.y,BG[n]);i=n}}
+async function run(i,g,o){let first=true;for(;;){if(!first||o.wipeFirst){}first=false;const org=await scenes[i](g,o);const ord=o.clip?ORDER_CLIP:ORDER;let n=ord[(ord.indexOf(i)+1)%ord.length];if(n===0)o.clip=false;await wipe(g,org.x,org.y,BG[n]);i=n}}
 function play(o={}){K=1/(o.speed||1);document.documentElement.style.setProperty('--k',K);const g=++gen;paused=false;syncPP();run(o.from||0,g,o).catch(e=>{if(e!==CANCEL)console.error(e)})}
 
 const PAUSE='<svg viewBox="0 0 12 12"><rect x="1.500" y="1" width="3" height="10" rx=".8"/><rect x="7.500" y="1" width="3" height="10" rx=".8"/></svg>',PLAY='<svg viewBox="0 0 12 12"><path d="M2.500 1.200v9.600L10.500 6z"/></svg>';
